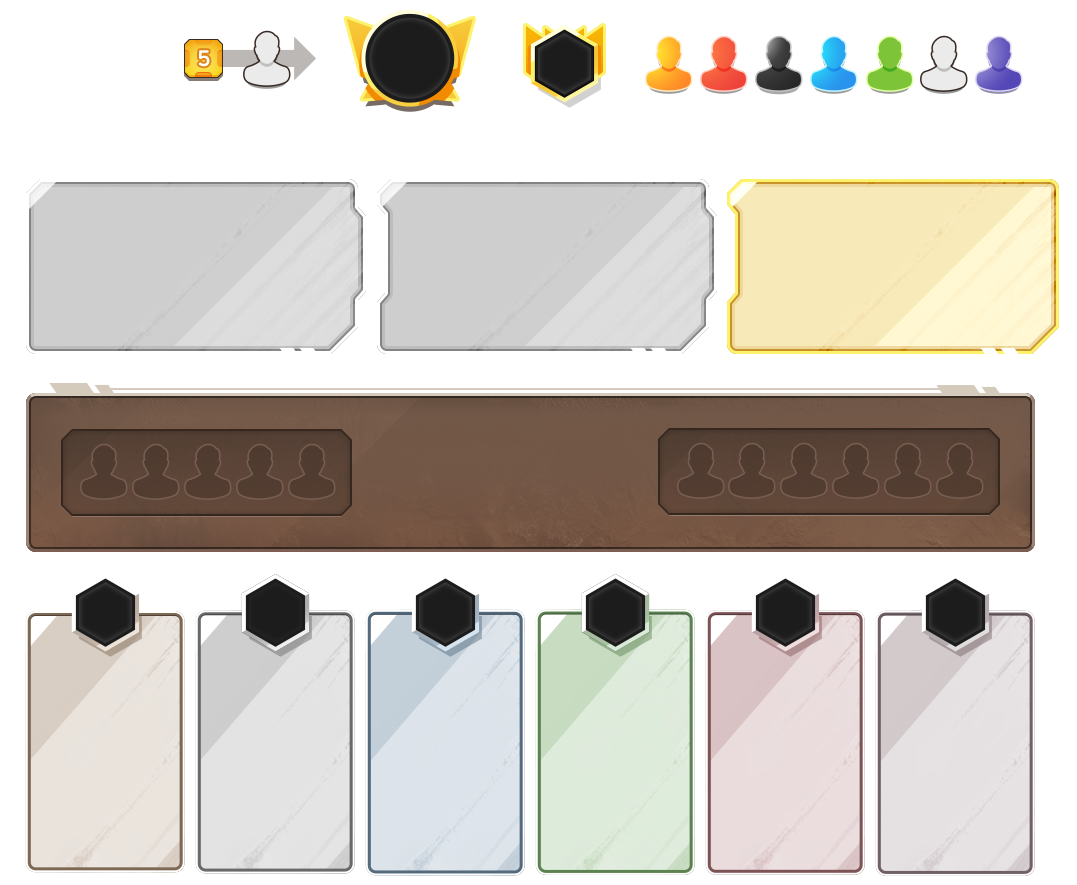
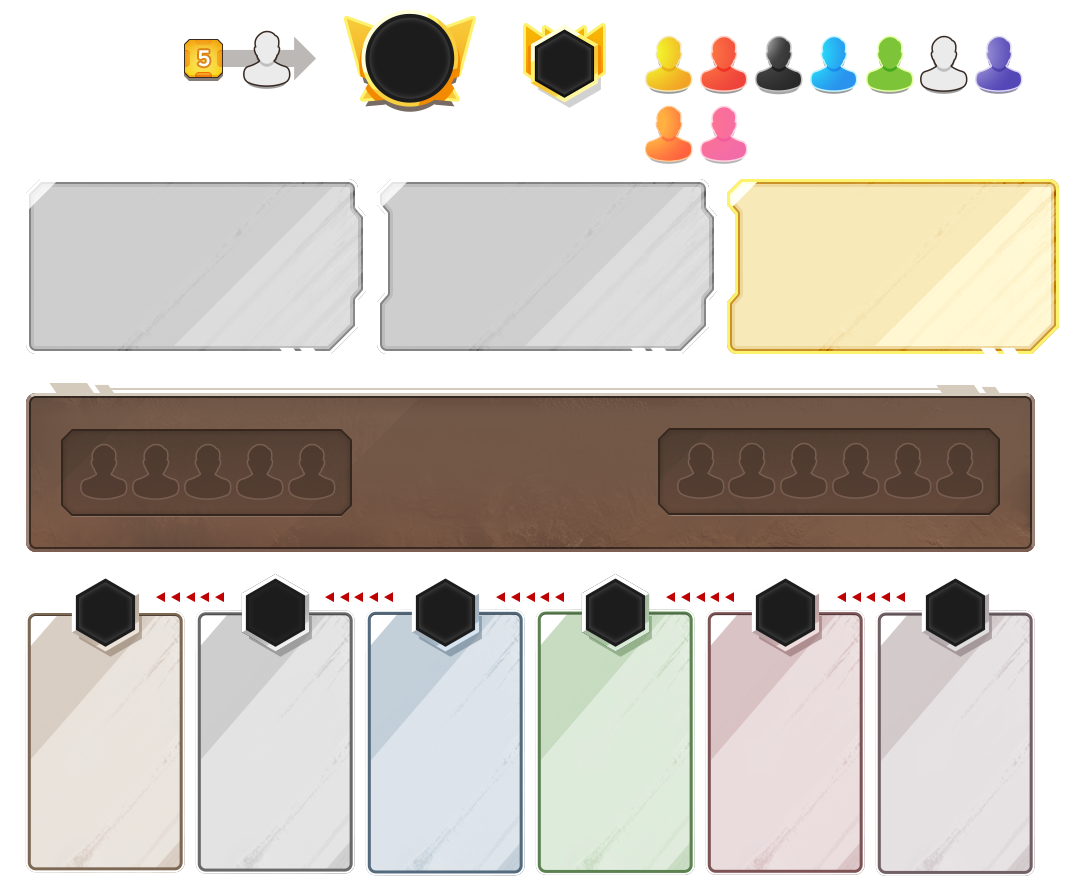
add two new colors

diff --git a/src/styles/player_home.less b/src/styles/player_home.less
@@ -24,6 +24,12 @@
 .player_shadow_color_purple {
     text-shadow: -1px -1px 6px @player_purple, 1px 1px 1px #333a;
 }
+.player_shadow_color_orange {
+    text-shadow: -1px -1px 6px @player_orange 1px 1px 1px #333a;
+}
+.player_shadow_color_pink {
+    text-shadow: -1px -1px 6px @player_pink 1px 1px 1px #333a;
+}
 
 .game-title {
     text-transform: uppercase;
@@ -96,6 +102,13 @@
         background-color: rgba(170, 170, 0, 0.2);
     }
 
+    .grid-item.player_tag_bg_color_orange {
+        background-color: rgba(189, 123, 0, 0.2);
+    }
+
+    .grid-item.player_tag_bg_color_pink {
+        background-color: rgb(245, 116, 187, 0.2);
+    }
     .city-count {
         background: url(assets/icon_city.png) center no-repeat;
         filter: invert(100%) contrast(200%);
@@ -744,8 +757,17 @@
     &.colonies-fleet-blue {
         background-position: -272px 0;
     }
+
     &.colonies-fleet-purple {
         background-position: -342px 0;
+    }
+
+    &.colonies-fleet-orange {
+        background-position: -416px 0;
+    }
+    
+    &.colonies-fleet-pink {
+        background-position: -490px 0;
     }
 }
 

diff --git a/src/styles/common.less b/src/styles/common.less
@@ -159,6 +159,14 @@ h2 {
     background-color: @player_purple;
 }
 
+.player_bg_color_orange {
+    background-color: @player_orange;
+}
+
+.player_bg_color_pink {
+    background-color: @player_pink;
+}
+
 // backgroungs with opacity
 .player_translucent_bg_color_red {
     .player_red_bg_translucent();
@@ -182,6 +190,14 @@ h2 {
 
 .player_translucent_bg_color_purple {
     .player_purple_bg_translucent();
+}
+
+.player_translucent_bg_color_orange {
+    .player_orange_bg_translucent();
+}
+
+.player_translucent_bg_color_pink {
+    .player_pink_bg_translucent();
 }
 
 @import "./language_switcher.less";

diff --git a/src/components/CreateGameForm.ts b/src/components/CreateGameForm.ts
@@ -82,6 +82,8 @@ export const CreateGameForm = Vue.component('create-game-form', {
         {index: 4, name: '', color: Color.BLUE, beginner: false, handicap: 0, first: false},
         {index: 5, name: '', color: Color.BLACK, beginner: false, handicap: 0, first: false},
         {index: 6, name: '', color: Color.PURPLE, beginner: false, handicap: 0, first: false},
+        {index: 7, name: '', color: Color.ORANGE, beginner: false, handicap: 0, first: false},
+        {index: 8, name: '', color: Color.PINK, beginner: false, handicap: 0, first: false},
       ],
       corporateEra: true,
       prelude: false,
@@ -340,7 +342,7 @@ export const CreateGameForm = Vue.component('create-game-form', {
       // Auto assign an available color if there are duplicates
       const uniqueColors = players.map((player) => player.color).filter((v, i, a) => a.indexOf(v) === i);
       if (uniqueColors.length !== players.length) {
-        const allColors = [Color.BLUE, Color.RED, Color.YELLOW, Color.GREEN, Color.BLACK, Color.PURPLE];
+        const allColors = [Color.BLUE, Color.RED, Color.YELLOW, Color.GREEN, Color.BLACK, Color.PURPLE, Color.ORANGE, Color.PINK];
         players.forEach((player) => {
           if (allColors.includes(player.color)) {
             allColors.splice(allColors.indexOf(player.color), 1);
@@ -503,7 +505,7 @@ export const CreateGameForm = Vue.component('create-game-form', {
                         <div class="create-game-colors-wrapper">
                             <label class="form-label form-inline create-game-color-label" v-i18n>Color:</label>
                             <span class="create-game-colors-cont">
-                            <label class="form-radio form-inline create-game-color" v-for="color in ['Red', 'Green', 'Yellow', 'Blue', 'Black', 'Purple']">
+                            <label class="form-radio form-inline create-game-color" v-for="color in ['Red', 'Green', 'Yellow', 'Blue', 'Black', 'Purple', 'Orange', 'Pink']">
                                 <input type="radio" :value="color.toLowerCase()" :name="'playerColor' + newPlayer.index" v-model="newPlayer.color">
                                 <i class="form-icon"></i> <div :class="'board-cube board-cube--'+color.toLowerCase()"></div>
                             </label>
@@ -789,7 +791,7 @@ export const CreateGameForm = Vue.component('create-game-form', {
                                             <input class="form-input form-inline create-game-player-name" :placeholder="getPlayerNamePlaceholder(newPlayer)" v-model="newPlayer.name" />
                                         </div>
                                         <div class="create-game-page-color-row">
-                                            <template v-for="color in ['Red', 'Green', 'Yellow', 'Blue', 'Black', 'Purple']">
+                                            <template v-for="color in ['Red', 'Green', 'Yellow', 'Blue', 'Black', 'Purple', 'Orange', 'Pink']">
                                                 <input type="radio" :value="color.toLowerCase()" :name="'playerColor' + newPlayer.index" v-model="newPlayer.color" :id="'radioBox' + color + newPlayer.index">
                                                 <label :for="'radioBox' + color + newPlayer.index">
                                                     <div :class="'create-game-colorbox '+getPlayerCubeColorClass(color)"></div>

diff --git a/src/styles/board.less b/src/styles/board.less
@@ -203,6 +203,14 @@
 	background: url(assets/board_icons.png) -118px -91px no-repeat;
 }
 
+.board-cube--orange {
+	background: url(assets/board_icons.png) -1px -117px no-repeat;
+}
+
+.board-cube--pink {
+	background: url(assets/board_icons.png) -24px -117px no-repeat;
+}
+
 .board-cube--bronze {
 	background: url(assets/board_icons.png) -142px -91px no-repeat;
 }

diff --git a/src/styles/mixins.less b/src/styles/mixins.less
@@ -23,3 +23,11 @@
 .player_purple_bg_translucent() {
     background: rgba(@player_purple, 0.7);
 }
+
+.player_orange_bg_translucent() {
+    background: rgba(@player_orange, 0.7);
+}
+
+.player_pink_bg_translucent() {
+    background: rgba(@player_pink, 0.7);
+}

diff --git a/src/styles/turmoil.less b/src/styles/turmoil.less
@@ -355,6 +355,14 @@
     &.purple {
         background-position: -973px 850px;
     }
+    
+    &.orange {
+        background-position: -644px 780px;
+    }
+
+    &.pink {
+        background-position: -699px 780px;
+    }
 
     &.neutral {
         background-position: -919px 850px;

diff --git a/src/styles/create_game_form.less b/src/styles/create_game_form.less
@@ -229,9 +229,14 @@
 .create-game-playerblock-purple {
     background-color: fade(@player_purple, 60%);
 }
+.create-game-playerblock-orange {
+    background-color: fade(@player_orange, 60%);
+}
+.create-game-playerblock-pink {
+    background-color: fade(@player_pink, 60%);
+}
 
 .create-game-player-name {
-    width: 240px;
     height: 40px;
     border: none;
     color: #ccc;

diff --git a/src/Color.ts b/src/Color.ts
@@ -5,6 +5,8 @@ export enum Color {
     GREEN = 'green',
     BLACK = 'black',
     PURPLE = 'purple',
+    ORANGE = 'orange',
+    PINK = 'pink',
     NEUTRAL = 'neutral',
     BRONZE = 'bronze',
 }

diff --git a/src/styles/variables.less b/src/styles/variables.less
@@ -15,6 +15,8 @@
 @player_black: rgb(170, 170, 170);
 @player_blue: rgb(0, 102, 255);
 @player_purple: rgb(140, 0, 255);
+@player_orange: rgb(236, 113, 12);
+@player_pink: rgb(245, 116, 187);
 //board
 @board-tharsis: rgb(224,153,109);
 @board-hellas: rgb(55,111,156);